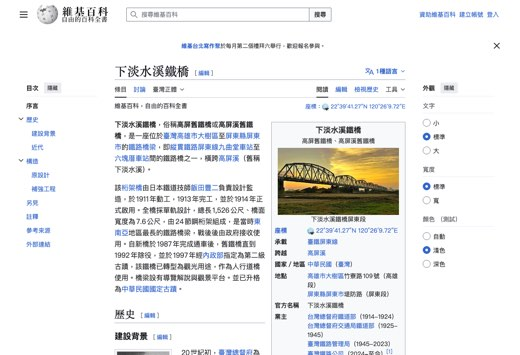
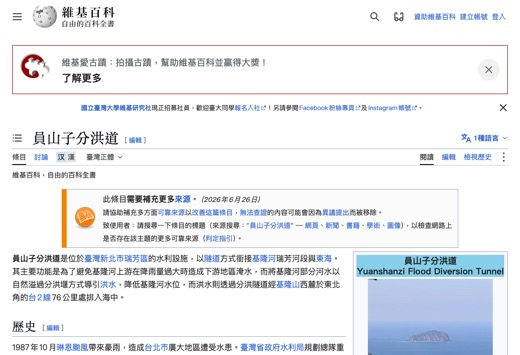
街景定位工程地景：景點資料與 twgeo 同步
修正高屏溪斜張橋、大港橋、沙崙、日月光等座標；南方澳新橋、大坑情人橋、高美濕地、王功生態景觀橋橋型；
觀音隧道改鑽炸＋NATM、林口電廠三相點改臨界點、阿里山改黏著式鐵路；淡江大橋改已通車；
下淡水溪鐵橋與高屏溪舊鐵橋合併，第 37 筆改收員山子分洪道（索引不變，重拍維基截圖並更新 SOURCES）；分類標籤橋樑改橋梁。

diff --git a/arcade/games/geoguess/index.html b/arcade/games/geoguess/index.html
@@ -209,42 +209,42 @@ const LOCS = [
 const SITES = [
   ["西螺大橋",23.8113,120.4606,3,"桁架結構分析（Truss）、靜定與靜不定結構判斷、拉壓桿件受力與材料降伏強度分析（第三章）。"],
   ["德基水庫大壩",24.2586,121.1544,3,"結構應力分析、流體力學與靜水壓力轉換、雙曲線混凝土拱壩受力與 CAE 模擬對照（第三章）。"],
-  ["高屏溪斜張橋",22.7847,120.9482,3,"向量力學分解、鋼索拉力分析、塔柱與橋面之自由體圖（FBD）繪製與彎矩平衡（第三章）。"],
+  ["高屏溪斜張橋",22.644,120.435,3,"向量力學分解、鋼索拉力分析、塔柱與橋面之自由體圖（FBD）繪製與彎矩平衡（第三章）。"],
   ["關渡大橋",25.1245,121.4556,0,"連續繫索鋼拱橋結構。觀察拱橋如何將垂直荷重轉化為向外的巨大推力，以及下方繫索的拉力制衡作用。"],
   ["台北101大樓",25.0339,121.5644,0,"巨型構架（Mega-frame）與調諧質量阻尼器（TMD）。探討超高層建築抗風與減震的動力學與能量消散機制。"],
-  ["翡翠水庫大壩",24.908,121.5734,0,"三心雙向彎曲變厚度混凝土拱壩。體現複雜 CAID 幾何與結構安全分析（CAE）在水利工程的極致結合 。"],
-  ["曾文水庫大壩",23.2458,120.5358,0,"滾壓式土石壩。探討顆粒材料工程、坡度穩定分析、土壤力學與巨型防洪洩洪道的鋼筋混凝土結構設計。"],
-  ["石門水庫溢洪道",24.8105,121.2468,0,"弧形閘門結構設計。水動力學與大體積水流瞬間洩放時，鋼結構閘門開啟的材料降伏強度與疲勞分析 。"],
+  ["翡翠水庫大壩",24.908,121.5734,0,"三心雙向彎曲變厚度混凝土拱壩。體現複雜 CAID 幾何與結構安全分析（CAE）在水利工程的極致結合。"],
+  ["曾文水庫大壩",23.2203,120.5081,0,"滾壓式土石壩。探討顆粒材料工程、坡度穩定分析、土壤力學與巨型防洪洩洪道的鋼筋混凝土結構設計。"],
+  ["石門水庫溢洪道",24.8105,121.2468,0,"弧形閘門結構設計。水動力學與大體積水流瞬間洩放時，鋼結構閘門開啟的材料降伏強度與疲勞分析。"],
   ["澎湖跨海大橋",23.6496,119.5488,1,"海洋極端環境下的防腐蝕材料工程、長跨度橋梁抗強烈季風與高鹽害環境的結構耐久度設計（第一章環境永續）。"],
   ["碧潭吊橋",24.9567,121.5372,0,"柔性結構與懸索橋原理。探討懸垂線（Catenary curve）的數學方程式、橋台錨碇座的抗拔力與物理受力轉換。"],
   ["淡水情人橋",25.1828,121.4111,0,"單塔不對稱斜張橋。探討結構不對稱性的動態平衡設計，主塔受巨大偏心彎矩分析與材料韌性（Toughness）要求。"],
   ["臺北車站屋頂結構",25.0478,121.517,0,"空間桁架系統（Space Frame）。利用三維節點分散巨大跨度的屋頂載重，減少單一柱體的軸向壓力。"],
-  ["南方澳跨港大橋(新)",24.5823,121.8672,0,"鯖魚造型懸臂式預力箱型梁橋。探討預力混凝土（Pre-stressed concrete）如何主動提供壓應力以抵銷拉力變形。"],
+  ["南方澳跨港大橋(新)",24.5823,121.8672,0,"鯖魚意象預力混凝土箱型梁橋（懸臂工法，2022 年通車）。對照 2019 年倒塌的舊鋼拱橋（吊索鏽蝕斷裂），探討預力如何抵銷拉應力，以及橋梁檢測維護的工程教訓。"],
   ["國道六號國姓交流道",23.9983,120.8524,0,"高達 70 公尺之高架橋墩。探討河床深基礎工程、高聳橋墩之尤拉挫曲（Euler Buckling）分析與耐震設計。"],
   ["五楊高架橋",25.06,121.36,1,"預鑄箱型梁與旋轉工法。在狹窄國道上方維持通車施工的工程限制（Constraints）與系統管理（第一章 CDIO）。"],
   ["舊山線龍騰斷橋",24.3582,120.7733,0,"磚石拱橋破壞遺跡。藉由大地震破壞斷面探討脆性材料、無鋼筋補強的早期砌磚工程之抗震缺陷與力學弱點。"],
-  ["下淡水溪鐵橋",22.6598,120.4269,0,"早期鉚釘工法與華倫式桁架。教材結構史探討，以及鋼材受強烈剪應力（Shear stress）與循環載重的分析。"],
+  ["下淡水溪鐵橋(高屏溪舊鐵橋)",22.6598,120.4269,0,"早期鉚釘工法與曲弦普拉特式鋼桁架（1964 年補強時部分改為華倫式）。教材結構史探討，以及鋼材受強烈剪應力（Shear stress）與循環載重的分析。"],
   ["大直橋",25.0769,121.5472,0,"釣竿式斜張橋。觀察無後置拉索的懸臂端，如何完全依靠塔柱根部強大的固端彎矩與深基礎來達到靜力平衡。"],
-  ["蘇花改觀音隧道",24.3751,121.785,0,"長隧道開挖工程。鑽掘機（TBM）與新奧工法（NATM）中的岩盤應力釋放、岩栓支撐與噴凝土的力學平衡。"],
+  ["蘇花改觀音隧道",24.3751,121.785,0,"長隧道開挖工程。鑽炸工法配合新奧工法（NATM）的岩盤應力釋放、岩栓支撐與噴凝土力學平衡（TBM 見雪山隧道之對照案例）。"],
   ["雪山隧道通風豎井",24.9192,121.8025,0,"地下工程與流體力學。深達數百公尺的豎井結構側向土壤壓力穩定性，與隧道內空氣交換之計算流體力學（CFD）。"],
   ["鯉魚潭水庫鋸齒堰",24.3355,120.7788,0,"鋸齒狀自然溢流堰。利用折線大幅增加溢流堰的有效排洪長度，展現流體力學在有限幾何空間中的創新應用。"],
   ["明德水庫壩體",24.5866,120.8988,0,"土石壩心牆設計。探討防滲漏黏土核心層與外部透水層的力學疊加效應，以及孔隙水壓力的排除機制。"],
   ["大漢溪新月橋",25.0298,121.4503,0,"雙跨不對稱鋼拱橋。觀察鋼索拉力與拱肋推力的交互作用分析，以及橋面板在風載重下的共振與扭轉防護。"],
   ["桃園機場第一航廈",25.0796,121.2342,0,"結構改建與拉皮工程。探討在不拆除原結構下，如何利用預力構件與微型樁進行擴展支撐，延續結構壽命。"],
-  ["南山廣場大樓",25.0326,121.567,0,"逆打工法與現代鋼骨結構。探討城市密集區的深開挖擋土技術、地下水壓控制與現代高樓的結構設計限制 。"],
-  ["高雄85大樓",22.6116,120.3002,0,"中空的高樓結構設計。抗風洞效應設計，避免空氣流經建築時產生卡門渦街（Karman vortex street）引發結構共振。"],
+  ["南山廣場大樓",25.0326,121.567,0,"逆打工法與現代鋼骨結構。探討城市密集區的深開挖擋土技術、地下水壓控制與現代高樓的結構設計限制。"],
+  ["高雄85大樓",22.6116,120.3002,0,"「高」字造型、雙塔在 35 樓以上合併的中空高樓結構。設計時以風洞試驗取得各測點正負風壓，並為台灣第一棟引進抗風阻尼器的摩天大樓，探討高樓受風擺動的評估與抑制。"],
   ["臺北捷運劍潭站",25.0847,121.5249,0,"懸索結構屋頂。模仿吊橋原理，將屋頂重量透過鋼纜傳至兩側塔柱，為建築美學、參數化幾何與力學的完美結合。"],
   ["臺中國際機場航廈",24.2647,120.62,2,"飛翼型大跨度屋頂。建築受強烈陣風載重（Wind load）時的升力與下壓力模擬分析（第二章 CAE 應用）。"],
   ["林口發電廠卸煤碼頭",25.1172,121.2913,0,"離岸長距棧橋。海洋波浪動態力對橋墩的長期沖刷，以及鋼管樁的低頻疲勞破壞分析（Fatigue analysis）。"],
   ["台東池上大橋",23.1098,121.1965,0,"位於活躍斷層帶的橋梁。防震與斷層潛移的伸縮縫設計、防落石塊與高阻尼橡膠減震支承設計（地震工程）。"],
   ["清境高空觀景步道",24.0569,121.1578,1,"山區高架棧道。陡峭地形限制下的微型樁基礎施工，與環境生態干擾最小化的結構設計（第一章環境責任）。"],
-  ["台中大坑情人橋",24.1685,120.7303,0,"鋼管斜拱橋設計。利用視覺錯覺與水中倒影構成幾何圖形，探討斜拱受力不均勻時產生的巨大扭矩與剪力分析。"],
+  ["台中大坑情人橋",24.1685,120.7303,0,"粉紅色曲線斜張橋。玻璃橋面與水中倒影構成愛心幾何，探討曲線橋面下斜張索受力不均產生的扭力與剪力分析。"],
   ["新北大橋",25.0486,121.4828,0,"倒Y型塔柱斜張橋。高達 135 公尺塔柱的風力自然頻率分析，以及索力微機電感測器在結構健康監測的應用。"],
   ["泰山收費站舊址",25.0609,121.4285,4,"現代 ETC 門架取代舊有龐大混凝土站體。體現感測科技演進對土木結構體積的巨大縮減（第四章/第一章）。"],
   ["新竹高鐵站屋頂結構",24.808,121.0403,0,"幾何曲面與空間鋼構架。強烈東北季風與高鐵列車高速通過時，風切變壓與風阻係數考量下的屋面板抗掀力學。"],
-  ["苗栗新東大橋",24.5516,120.8351,0,"全臺首座對稱斜張橋。橋身靜態應力分佈、兩端配重平衡計算與夜間景觀照明的機電整合設計。"],
+  ["苗栗新東大橋",24.5516,120.8351,0,"全臺首座對稱式全電焊鋼構斜張橋。橋身靜態應力分佈、兩端配重平衡計算與夜間景觀照明的機電整合設計。"],
   ["日月潭向山遊客中心",23.8519,120.9016,0,"清水模大跨距頂版。無柱空間設計挑戰混凝土抗拉極限，需精確計算剪力牆與預力樑的力學模擬分析以防止裂縫。"],
-  ["高屏溪舊鐵橋",22.6599,120.4267,0,"百年鋼桁架橋。與現今高強度鋼材的楊氏模數比較，以及鉚釘接頭破壞機理、應力集中現象探討 。"],
+  ["員山子分洪道",25.1076,121.8058,0,"基隆河分洪工程。攔河堰與 2.5 公里分洪隧道將洪峰直接導入外海，探討水理計算、隧道襯砌與防洪頻率設計。"],
   ["新港溪橋（台南）",23.0375,120.2798,0,"國道一號預鑄橋梁。預鑄節塊工法，探討推移施工（Incremental launching）過程中，橋面板懸臂受力狀態的不斷變化。"],
   ["草山月世界吊橋",22.9513,120.3951,0,"惡地地形的橋梁基礎。探討泥岩遇水軟化的極端土壤力學特性，與微型基樁依靠側向摩擦力支撐的機制。"],
   ["阿公店水庫",22.8028,120.3547,0,"壩體長度極長之土石壩。探討水庫防洪機制、泥沙淤積對壩體側向壓力的影響與結構壽命評估（土木與環境工程）。"],
@@ -256,24 +256,24 @@ const SITES = [
   ["東石漁人碼頭觀景台",23.4475,120.1347,0,"鹽害環境中的輕鋼構建築。金屬表面防鏽處理技術（熱浸鍍鋅）、結構疲勞檢測與海岸風力流體力學。"],
   ["合歡山公路武嶺亭",24.1372,121.2758,0,"極端氣候下的高山微型結構。雪載重（Snow load）估算與低溫環境對金屬材料韌性（Toughness）與脆化的影響。"],
   ["台南七股觀海樓",23.1364,120.0886,0,"潟湖上的鋼筋混凝土結構。探討強風侵襲與地層下陷區域的基礎沉陷問題，以及基樁承載力的重新評估。"],
-  ["中橫公路九曲洞明隧道",24.1751,121.5204,0,"懸崖峭壁的落石防護。探討緩衝材料（如廢輪胎或特殊阻尼網）吸收巨大落石動能的衝擊力學（Impulse-momentum）。"],
+  ["中橫公路九曲洞明隧道",24.1713,121.5311,0,"懸崖峭壁的落石防護。探討緩衝材料（如廢輪胎或特殊阻尼網）吸收巨大落石動能的衝擊力學（Impulse-momentum）。"],
   ["台中國家歌劇院",24.1624,120.6413,2,"連續曲面殼體結構（Sound Cave）。CAID 參數化建模、拓撲幾何運算與無梁柱系統分析（第二章）。"],
   ["台北表演藝術中心",25.0852,121.5244,2,"懸浮球形劇場。極端偏心載重分析、複雜幾何干涉檢查與 CAE 有限元素靜力模擬（第二章）。"],
-  ["淡江大橋（建設中）",25.1746,121.4172,0,"單塔不對稱斜張橋。Zaha Hadid 設計，流動性外觀高度依賴 CAD 流體力學優化與參數化纜索配置 。"],
+  ["淡江大橋",25.1746,121.4172,0,"世界最長單塔不對稱斜張橋（主跨 450 公尺，2026 年 5 月通車）。Zaha Hadid 事務所設計，流動性外觀高度依賴 CAD 流體力學最佳化與參數化纜索配置。"],
   ["衛武營國家藝術文化中心",22.6254,120.3421,0,"自由曲面鋼骨屋頂（Banyan Tree）。造船技術（鈑金展開與銲接）在建築上的跨域應用，數位化 CNC 精密切割。"],
   ["高雄流行音樂中心",22.6186,120.2917,0,"六角形蜂巢結構與海浪造型。空間不規則鋼構的參數化組裝與幾何玻璃帷幕的切割誤差運算。"],
   ["蘭陽博物館",24.8688,121.8315,0,"單面山幾何傾斜結構。非常規重力垂直線設計的靜力平衡挑戰，與內部交錯桁架支撐的應力傳遞轉換。"],
   ["故宮南院",23.4725,120.2936,0,"墨韻飛白雙流線體造型。曲面鋼構如何克服臺灣炎熱氣候下的熱脹冷縮與三維空間的加工扭曲（製造業 CAD）。"],
   ["臺北流行音樂中心",25.0526,121.6006,0,"幾何折板山脈屋頂設計。室內聲學模擬（Acoustic simulation）與建築結構的融合，利用軟體進行聲音漫射預測。"],
-  ["臺北大巨蛋",25.0422,121.5587,0,"巨型橢圓形穹頂結構。建築外部風洞測試模擬（CFD）與超過 130 公尺跨度的巨型張力環樑承載設計 。"],
+  ["臺北大巨蛋",25.0422,121.5587,0,"巨型橢圓形穹頂結構。建築外部風洞測試模擬（CFD）與超過 130 公尺跨度的巨型張力環樑承載設計。"],
   ["嘉義火車站新站體(願景)",23.4791,120.4402,0,"現代木構造與幾何鋼構結合。探討不同材料（木材與金屬）結合時的熱膨脹係數差異與應力傳遞邊界條件。"],
-  ["桃園市立圖書館新總館",25.0163,121.2985,0,"「生命樹」環保綠建築。圓錐狀中央採光井的數位日照軌跡模擬，與自然通風的 CFD 流體力學分析 。"],
-  ["臺中綠美圖（建設中）",24.1856,120.6542,0,"妹島和世設計。極簡外觀背後的複雜結構隱藏設計，玻璃帷幕的抗風壓與微氣候模擬分析。"],
+  ["桃園市立圖書館新總館",25.0178,121.3,0,"「生命樹」環保綠建築。圓錐狀中央採光井的數位日照軌跡模擬，與自然通風的 CFD 流體力學分析。"],
+  ["臺中綠美圖",24.1856,120.6542,0,"SANAA（妹島和世＋西澤立衛）設計，2025 年底開館。極簡外觀背後的複雜結構隱藏設計，玻璃帷幕的抗風壓與微氣候模擬分析。"],
   ["新北市立美術館",24.9452,121.3503,0,"蘆葦叢外觀美術館。外部數千根參差不齊的金屬鋁管，依賴參數化腳本隨機生成位置與防風噪震動測試。"],
   ["臺南美術館二館",22.9904,120.2016,0,"碎形樹狀遮陽屋頂。五角形碎形幾何（Fractal geometry）的複雜力學分佈與日光穿透率計算。"],
   ["高雄車站（新站）",22.6394,120.3025,0,"天棚下沉式廣場。有機雲朵天花板構造，數位加工金屬板材拼貼的容許誤差控制技術與曲面展平計算。"],
   ["屏東縣民公園",22.6583,120.4851,0,"地坑遺址活化。運用 3D 數位雷射測繪技術與現有廢棄鋼構的反向工程（Reverse Engineering）結構補強。"],
-  ["富邦信義A25總部大樓",25.0378,121.5694,0,"超高層建築。斜向交叉鋼柱系統（Diagrid），捨棄內部沉重核心筒的創新力學傳遞路徑與拓撲優化。"],
+  ["富邦信義A25總部大樓",25.0378,121.5694,0,"超高層全鋼構大樓。雙層玻璃帷幕的抗風壓與耐震設計，轉角退縮的晶體造型幾何與帷幕單元的誤差控制。"],
   ["亞洲大學現代美術館",24.047,120.6872,0,"安藤忠雄設計。由三個正三角形錯落堆疊構成，純幾何平面的結構柱位干涉與懸臂樓板受力 CAE 分析。"],
   ["臺中國際會展中心",24.1805,120.6508,0,"大跨距波浪形屋頂。大面積屋面板在強風下的風起壓力（Wind uplift）運算與高強度緊固件設計。"],
   ["南科考古館",23.1042,120.2811,0,"方塊切割與傾斜外牆。傾斜玄武岩牆面的懸掛配筋計算，與解決視覺失衡的隱藏式受力支撐方案。"],
@@ -281,126 +281,126 @@ const SITES = [
   ["臺東大學圖書館",22.7533,121.0664,0,"金字塔地景建築。覆土建築（Earth-sheltered building）的精密防水工法與斜面土壤側壓力 CAE 分析。"],
   ["雲林高鐵站",23.7314,120.4072,0,"流線型柱列設計。參數化連續變化柱列的開模製造挑戰，與電腦數值控制加工（CNC）在模板成型的應用。"],
   ["彰化高鐵站",23.8732,120.5746,0,"花朵造型漏斗柱。承載巨大屋頂重量同時兼顧管線排水機能的仿生設計（Biomimetic design）與受力拓撲。"],
-  ["嘉義高鐵站",23.4591,120.3235,0,"輕量化張拉膜結構（Tensile fabric structure）。薄膜受預張力作用下的形態尋找（Form-finding）與風力分析。"],
+  ["嘉義高鐵站",23.4581,120.3261,0,"大跨距鋼構斜面金屬屋頂。樹狀分岔柱列的力流傳遞、大懸挑屋簷的風載分析與自然採光設計。"],
   ["臺南左鎮化石園區",23.0573,120.4014,0,"清水模與鋼構擴建。新舊結構交接處的地震位移容許度模擬，防止碰撞破壞（CAE 結構動態應力分析）。"],
   ["高雄世運主場館",22.7025,120.2941,0,"馬鞍形螺旋屋頂與光電一體化。開放式運動場的 CAD 風洞模型建立與太陽能板傾角的最佳化演算法運算。"],
   ["宜蘭羅東文化工場",24.6713,121.7675,0,"巨型鋼構棚架。類似太空船懸浮的設計，以極少數巨柱支撐龐大頂蓋的極端載重轉移與底座抗剪力設計。"],
   ["國立臺灣歷史博物館",23.0592,120.2248,0,"太陽能光電雲牆。支撐 4000 多片面板的複雜鋼網架系統，受強烈陣風時的動態響應與疲勞分析。"],
-  ["桃園流行音樂露天劇場",25.0118,121.2132,0,"聲學反射遮棚。利用 CAID 模擬聲波在開放空間的反射路徑，使建築實體本身成為巨大的聲學擴音器。"],
+  ["桃園陽光劇場(流行音樂露天劇場)",25.0242,121.2184,0,"聲學反射遮棚。利用 CAID 模擬聲波在開放空間的反射路徑，使建築實體本身成為巨大的聲學擴音器。"],
   ["新竹市圖書館新總館(建)",24.8105,120.9701,0,"智慧綠建築設計。太陽軌跡追蹤的 3D 模擬，導入自動化遮陽系統（機電整合）與室內熱流散熱分析。"],
-  ["中原大學圖書館",24.9575,121.2405,0,"綠色中庭通風系統。透過中庭天井引導熱浮力通風（浮力效應），利用 CFD 模擬減少空調耗能的流場設計 。"],
+  ["中原大學圖書館",24.9575,121.2405,0,"綠色中庭通風系統。透過中庭天井引導熱浮力通風（浮力效應），利用 CFD 模擬減少空調耗能的流場設計。"],
   ["元智大學遠東有庠通訊大樓",24.9698,121.2641,0,"清水混凝土幾何量體。純粹幾何塊體切割的美學，與內部不對稱重量分佈的 CAD 質心計算應用。"],
-  ["高美濕地景觀橋",24.3125,120.5488,0,"雙塔雙弧線懸索橋。配合當地候鳥飛行的弧線幾何，流體力學抗風壓與生態保育視覺衝擊的妥協設計。"],
-  ["星巴克洄瀾門市(貨櫃屋)",23.9723,121.5948,0,"貨櫃錯落堆疊結構。廢棄模組化貨櫃的開窗結構補強，與錯位堆疊時節點的抗剪力與扭矩計算。"],
+  ["高美濕地景觀橋",24.3125,120.5488,0,"雙塔雙弧線斜張橋（國內首座）。配合當地候鳥飛行的弧線幾何，流體力學抗風壓與生態保育視覺衝擊的妥協設計。"],
+  ["星巴克洄瀾門市(貨櫃屋)",23.9723,121.5948,0,"貨櫃錯落堆疊結構。廢棄模組化貨櫃的開窗結構補強，與錯位堆疊時節點的抗剪力與扭力計算。"],
   ["宏匯i-Tower（新莊）",25.0593,121.4485,0,"雲端智能摩天大樓。智慧建築的 BIM（建築資訊模型）深度應用，在 3D 空間中統整水電、空調與結構管線防干涉。"],
   ["東海大學路思義教堂",24.1788,120.6006,0,"雙曲拋物面（Hyperbolic paraboloid）。早期無電腦輔助下達成 3D 曲面殼體結構的歷史對照與幾何生成解析。"],
   ["桃園高鐵站",25.0132,121.2148,0,"燈籠造型金屬帷幕。探討雙向曲面金屬板材的雷射切割路徑規劃，與平面展開圖的微積分運算（數位加工）。"],
   ["北投圖書館",25.1364,121.5065,0,"臺灣首座綠建築圖書館。木造結構與自然採光、雨水回收的整合 CAD 設計，木材彈性模數與防潮探討。"],
   ["臺北大縱走圓山微波站",25.0811,121.5284,0,"通訊鐵塔空間鋼構。高頻通訊波傳遞受風力震動影響的分析，以及耐候鋼材料在山區的特性。"],
   ["三創數位生活園區",25.0445,121.5312,0,"現代科技商場帷幕。外牆參數化 LED 燈條與玻璃帷幕的整合，光電工程散熱與建築表皮的機電整合。"],
-  ["新北圖書館總館",25.0039,121.4518,0,"書架狀外觀與節能設計。立面開口參數化調整以阻絕輻射熱能，並導入電腦模擬光跡追蹤優化閱讀區光線。"],
+  ["新北圖書館總館",25.0039,121.4518,0,"書架狀外觀與節能設計。立面開口參數化調整以阻絕輻射熱能，並導入電腦模擬光跡追蹤最佳化閱讀區光線。"],
   ["臺中市政府新市政大樓",24.1627,120.6468,0,"橫向巨型窗框與跨棟通道。高層建築間連通空橋面對地震時的差異沉陷，與防震滑動支承（Sliding bearing）設計。"],
   ["高雄市圖書總館",22.6101,120.3015,0,"懸吊式綠建築。顛覆由下而上的承重，利用巨柱頂層懸吊鋼拉桿支撐樓板，減少柱子體積的拉力系統設計。"],
   ["臺東轉運站（舊火車站）",22.7533,121.1444,0,"傘骨狀鋼棚結構。利用輻射狀圓管傳遞載重的對稱幾何美學與張量力學設計，提供大面積無柱遮蔽。"],
-  ["花蓮富里車站",23.1786,121.2505,0,"穀倉造型輕鋼構車站。以簡潔連續折板屋面適應花東縱谷的強陣風氣候，運用 CAD 優化自然採光。"],
+  ["花蓮富里車站",23.1786,121.2505,0,"穀倉造型輕鋼構車站。以簡潔連續折板屋面適應花東縱谷的強陣風氣候，運用 CAD 最佳化自然採光。"],
   ["臺南台江文化中心",23.0531,120.1834,0,"樹叢交錯鋼筋立面。不規則金屬網狀外牆的力學固定端點計算與高溫高濕環境的生鏽防護（材料處理）。"],
   ["嘉義市立美術館",23.4777,120.4431,0,"CLT 交叉層壓木材應用。古蹟增建中採用現代工程木材（Engineered wood）減少自重負擔，與木構防火設計。"],
   ["新竹波光市集",24.8475,120.9272,0,"波浪形幾何木構。適應新竹強風的海濱建築，木板流線防風設計的流體力學，減少風阻係數。"],
   ["誠品生活新店（裕隆城）",24.9768,121.5458,0,"內部穹頂微建築。巨大圓形穹頂與層疊木作陽台的空間受力 CAE 解析，與參數化木紋面板雷射切割拼接。"],
-  ["高雄大港橋",22.6168,120.2536,3,"水平旋轉機構。馬達驅動大齒輪系、減速增扭、高精度編碼器定位控制與機電安全連鎖（第三章）。"],
+  ["高雄大港橋",22.6178,120.2838,3,"水平旋轉機構。馬達驅動大齒輪系、減速增扭、高精度編碼器定位控制與機電安全連鎖（第三章）。"],
   ["國道一號 ETC 門架 (新竹)",24.7887,121.005,0,"高速動態感測。RFID 無線射頻技術、紅外線感測與高速影像辨識的類比數位轉換（第四/五章）。"],
   ["國道三號 ETC 門架 (大甲)",24.3641,120.6128,0,"戶外電子系統防護。探討極端氣候下精密電子電路板（PCB）的防水防塵（IP等級）封裝與抗突波保護。"],
   ["臺北捷運文湖線 (高架段)",25.0782,121.5794,0,"自動列車控制（ATC）。封閉迴路控制系統、變頻馬達驅動與無人駕駛之感測器多重備援（Redundancy）設計。"],
-  ["桃園機場第三航廈PMS",25.076,121.223,0,"旅客捷運系統導軌。探討直線馬達（Linear Motor）原理，將傳統旋轉定子攤平產生的磁浮與線性推進力。"],
+  ["桃園機場旅客捷運系統(PMS)",25.076,121.223,0,"航廈間旅客捷運（PMS）。膠輪導軌電車（側向導引、三相交流 600 V 供電），探討無人駕駛自動運行與導引輪機構的短程接駁工程。"],
   ["高雄輕軌 (真愛碼頭站)",22.6189,120.2882,4,"無架空線充電系統。進站短暫接觸瞬間的超級電容器（Capacitor）大電流快速儲能技術（第四章電容器應用）。"],
   ["高雄港第七貨櫃中心",22.5458,120.3175,0,"智慧無人碼頭。自動導引車（AGV）的光達導航，橋式機全自動抓取之四連桿機構定位與伺服防搖擺控制。"],
   ["貓空纜車 (轉角二站)",24.9754,121.5901,0,"纜車轉向機構。鋼纜動力轉換系統，巨大滑輪組與脫掛式車廂的夾爪機械制動機構設計（機構學）。"],
   ["日月潭纜車 (九族站)",23.8647,120.9405,0,"長距離鋼索驅動。馬達變頻驅動系統，遭遇強風時的風速計自動感測與停機保護機制（大電力繼電器控制）。"],
-  ["臺北車站月台門系統",25.0478,121.517,0,"月台幕門（PSD）。馬達驅動齒輪齒條機構（Rack and pinion mechanism）將旋轉轉直線，與防夾紅外線感測 。"],
+  ["臺北車站月台門系統",25.0478,121.517,0,"月台幕門（PSD）。馬達驅動齒輪齒條機構（Rack and pinion mechanism）將旋轉轉直線，與防夾紅外線感測。"],
   ["淡海輕軌 (藍海橋)",25.1856,121.4255,0,"輕軌軌道機電整合。道岔（Turnout）自動切換裝置，電動轉轍器的推拉滑塊機構分析與安全鎖定。"],
-  ["蘇花改自動科技執法",24.4552,121.8415,0,"區間測速系統。車牌影像辨識與微處理器時間差運算，雷達波感測車速的都卜勒效應（信號處理）。"],
+  ["蘇花改自動科技執法",24.462,121.803,0,"區間測速系統。車牌影像辨識與微處理器時間差運算，雷達波感測車速的都卜勒效應（信號處理）。"],
   ["臺中捷運綠線 (高架段)",24.1622,120.6496,0,"再生煞車系統。列車減速時馬達反轉作為發電機，將動能轉換回電能儲存或供電網使用（能量守恆與轉換）。"],
   ["臺北建國高架橋下停車場",25.0345,121.5372,0,"智慧停車系統。地磁感測器（探測巨大金屬車體）與超音波感測器（探測物理距離）的協同運作與雲端傳輸。"],
-  ["桃園高鐵站聯外機捷系統",25.0132,121.2148,0,"行李自動分揀系統。輸送帶網路的光學條碼掃描與推桿機構（曲柄滑塊）的精確微秒級時序控制 。"],
+  ["桃園高鐵站聯外機捷系統",25.0132,121.2148,0,"高鐵與機場捷運共構轉乘樞紐。站體共構工程、人流動線模擬與自動收費閘門的感應與機構設計。"],
   ["高雄鐵路地下化通風塔",22.6395,120.302,0,"巨型隧道抽風機。三相交流感應馬達驅動與變頻器（Inverter）轉速控制，維持地下空氣品質的機電整合。"],
-  ["台糖蒜頭糖廠五分車",23.48,120.2988,0,"早期蒸汽機車與連桿。觀察雙曲柄機構（Double crank mechanism）如何完美滿足格拉曉夫定則，驅動火車車輪整周旋轉 。"],
+  ["台糖蒜頭糖廠五分車",23.48,120.2988,0,"早期蒸汽機車與連桿。觀察雙曲柄機構（Double crank mechanism）如何完美滿足格拉曉夫定則，驅動火車車輪整周旋轉。"],
   ["八斗子海科館齒輪牆",25.1432,121.8021,0,"動態展示館內齒輪牆。行星齒輪系（Planetary gear train）的複雜相對運動軌跡與齒輪速比（Gear ratio）計算。"],
-  ["高鐵燕巢總機廠",22.7667,120.3478,0,"列車轉向架維修升降台。螺旋機構（導螺桿 Lead screw）應用，提供機械自鎖性與高精度之數十噸垂直舉升 。"],
+  ["高鐵燕巢總機廠",22.7667,120.3478,0,"列車轉向架維修升降台。螺旋機構（導螺桿 Lead screw）應用，提供機械自鎖性與高精度之數十噸垂直舉升。"],
   ["彰化扇形車庫",24.0864,120.5406,0,"旋轉轉車盤。單點支撐百噸火車的旋轉力矩平衡機制，以及早期的機械式減速傳動與手動控制桿。"],
   ["大稻埕碼頭水門",25.0569,121.5061,0,"防洪閘門驅動機構。利用電動馬達搭配重型油壓缸或巨型螺旋桿進行沉重鋼閘門的直線升降控制。"],
-  ["宜蘭梅花湖抽水站",24.6465,121.7312,0,"大型防洪抽水泵。阿基米德螺旋泵或離心泵的高效能流體輸送，三相感應馬達瞬間啟動大電流負載測試。"],
-  ["臺北微風南山 3D 影城",25.0346,121.5672,0,"4D 動感座椅系統。氣壓缸或伺服馬達（Servo motor）結合六自由度（6-DOF）史都華平台之精準動態控制 。"],
+  ["宜蘭梅花湖(天然蓄水埤)",24.6465,121.7312,0,"天然湖泊的蓄水調節與農田灌溉水利。探討埤塘容量估算、進出水閘門流量控制與集水區泥沙淤積監測。"],
+  ["臺北微風南山 3D 影城",25.0346,121.5672,0,"4D 動感座椅系統。氣壓缸或伺服馬達（Servo motor）結合六自由度（6-DOF）史都華平台之精準動態控制。"],
   ["桃園機場塔台",25.0772,121.233,0,"航空測向雷達天線。雷達馬達穩定旋轉機制與微波訊號接收之數位訊號處理（DSP）及微控制器高速運算。"],
-  ["中部科學園區巨大機械",24.2185,120.612,0,"自動化自行車產線。工業機械手臂的六軸空間運動學，伺服馬達閉迴路控制與絕對編碼器（Encoder）定位。"],
-  ["高雄岡山空軍官校",22.7845,120.2766,0,"飛行模擬器機台。萬向接頭（Universal joint）與高壓油壓致動器在模擬飛行極端姿態的動態反應 。"],
-  ["新北環狀線 (十四張站)",24.9836,121.5284,0,"軌道轉轍器機房。控制列車換軌的機電安全連鎖邏輯，PLC 中 AND/OR/NOT 邏輯閘的工業級攸關性應用 。"],
+  ["中科巨大集團全球營運總部",24.2185,120.612,0,"自行車產業研發總部。參數化設計帷幕與自行車文化探索館展示工程，對應自行車產業的研發製造職涯。"],
+  ["高雄岡山空軍官校",22.7845,120.2766,0,"飛行模擬器機台。萬向接頭（Universal joint）與高壓油壓致動器在模擬飛行極端姿態的動態反應。"],
+  ["新北環狀線 (十四張站)",24.9836,121.5284,0,"軌道轉轍器機房。控制列車換軌的機電安全連鎖邏輯，PLC 中 AND/OR/NOT 邏輯閘的工業級攸關性應用。"],
   ["臺北101 阻尼器觀景台",25.0339,121.5644,0,"阻尼器油壓緩衝系統。將建築搖晃的巨大動能轉化為液體摩擦熱能消散，黏滯阻尼器的阻尼係數計算。"],
-  ["左營軍港海軍艦艇",22.6865,120.2766,0,"艦砲旋轉塔或雷達基座。軍用級的穩定追蹤系統，結合三軸陀螺儀感測器與伺服馬達高速反饋控制迴路。"],
+  ["左營軍港海軍艦艇",22.6865,120.2766,0,"艦砲旋轉塔或雷達基座。軍用級的穩定追蹤系統，結合三軸陀螺儀感測器與伺服馬達高速回饋控制迴路。"],
   ["墾丁龍磐公園雷達站",21.9288,120.8436,0,"大型陣列天線。電磁波收發陣列與機構的防風穩固設計，在極端高溫與高鹽害環境的機電元件防護。"],
   ["臺北天文館宇宙探險車",25.0958,121.5175,0,"軌道車廂與場景連動系統。光電感測器觸發沿線機關（如外星人彈出）的精確時序控制（Timer IC 如 NE555）。"],
   ["台積電中科 15 廠 (天橋)",24.2086,120.6175,0,"OHT 空中走行無人搬運車。天花板軌道網上的非接觸磁感應供電與防撞高精度紅外線雷射陣列。"],
   ["新竹物流林口自動化倉儲",25.0716,121.3688,0,"AS/RS 自動倉儲系統。堆垛機的高速 XYZ 三維座標同時移動，與 PLC 馬達驅動板的精準定位與防滑煞車。"],
-  ["清水休息站戶外太陽能樹",24.2644,120.6094,0,"追日型太陽能板。感光元件（如 LDR 光敏電阻）回饋電壓訊號給微控制器，驅動步進馬達隨時轉向陽光 。"],
+  ["台南高鐵站太陽光能樹",22.9245,120.2856,0,"樹形太陽光電裝置。156 片單晶矽板組成樹冠意象，搭配儲能系統與 LED 夜間展演，探討光電轉換效率與裝置藝術的結合。"],
   ["臺中麗寶樂園斷軌飛車",24.3216,120.6955,0,"斷軌旋轉機構。滿載車廂懸空 90 度轉向，極端承重的油壓連桿機構與多重視訊與近接開關的安全鎖定感測。"],
   ["新北投溫泉博物館 (閥門)",25.1368,121.506,0,"管線蒸汽調控閥門。探討熱脹冷縮極端環境下的物理機械金屬開關與高壓水壓平衡設計。"],
-  ["高雄世運捷運站動態藝術",22.7025,120.2941,0,"風動與機電動態雕塑。瓦特連桿（Watt's linkage）等近似直線機構應用於藝術展示之平滑軌跡生成 。"],
-  ["阿里山林鐵 (獨立山螺旋)",23.5358,120.6052,0,"螺旋爬坡軌道。探討輪軌鋼鐵間摩擦力極限，與齒軌鐵路（Rack railway）之齒輪齒條克服地心引力原理 。"],
-  ["臺北大巨蛋活動屋頂機房",25.0422,121.5587,0,"屋頂開闔機構 (設計預留)。巨型活動模組的驅動馬達群組同步運轉（Synchronization）與干涉防護挑戰。"],
-  ["彰化王功漁港景觀橋",23.9664,120.3188,0,"折疊開啟橋設計探討。分析活動橋樑鉸接點（Hinge）的動態受力與纜索牽引機構的起步扭矩計算。"],
+  ["高雄世運捷運站動態藝術",22.7025,120.2941,0,"風動與機電動態雕塑。瓦特連桿（Watt's linkage）等近似直線機構應用於藝術展示之平滑軌跡生成。"],
+  ["阿里山林鐵 (獨立山螺旋)",23.5358,120.6052,0,"螺旋展線與之字形爬坡。黏著式鐵路的輪軌摩擦力極限，與 Shay 蒸汽機車直立汽缸傘齒輪傳動的登山工程智慧。"],
+  ["臺北大巨蛋空調換氣系統",25.0422,121.5587,0,"密閉式巨蛋的大空間空調工程。分層空調與換氣的 CFD 氣流模擬、巨型風管配置與滿場觀眾散熱負荷控制。"],
+  ["彰化王功生態景觀橋",23.9664,120.3188,0,"固定式鋼桁架景觀橋（建築師廖偉立設計）。桁架與折板構造的複合傳力，兼具通行、觀景與地景藝術機能。"],
   ["竹科旺宏電子總部",24.7744,121.0116,0,"晶圓廠無塵室空調系統。精密溫溼度感測模組（如 DHT）與變頻冰水主機的 PID 機電回饋控制。"],
-  ["林口三井 Outlet 摩天輪",25.071,121.3615,0,"巨型摩天輪驅動。採用輪胎摩擦邊緣驅動或中心齒輪驅動大迴轉半徑物件的低速高扭力機電配置。"],
+  ["台中港三井摩天輪(台中之星)",24.287,120.531,0,"巨型摩天輪驅動。採用輪胎摩擦邊緣驅動或中心齒輪驅動大迴轉半徑物件的低速高扭力機電配置。"],
   ["花蓮海洋公園纜車",23.9015,121.6033,0,"陡坡纜索輸送。雙向夾索器機制，探討重力下坡勢能如何透過聯動輪軸輔助上坡耗能的機械平衡系統。"],
   ["高屏溪攔河堰閘門",22.6841,120.4486,0,"弧形閘門開啟機構。電動馬達經雙重蝸輪蝸桿減速機（具備強大自鎖防滑特性）吊升數百噸鋼閘門。"],
   ["台江國家公園遊客中心",23.0188,120.1333,0,"智慧綠建築百葉窗。與溫度/光線感測器連動的電動百葉窗（步進馬達驅動定位），實現自動遮陽。"],
   ["中鋼高雄總部大樓",22.6058,120.3019,0,"外牆洗窗機軌道系統。高空懸吊工作台的雙軌升降機構與防止墜落的斷電常閉型電磁煞車器。"],
-  ["臺北小巨蛋冰上樂園",25.0519,121.5533,0,"巨型製冰冷媒系統。壓縮機、冷凝器與熱力學轉換，以及冰面溫度感測器的熱敏電阻線性電壓應用 。"],
+  ["臺北小巨蛋冰上樂園",25.0519,121.5533,0,"巨型製冰冷媒系統。壓縮機、冷凝器與熱力學轉換，以及冰面溫度感測器的熱敏電阻線性電壓應用。"],
   ["信義區智慧路燈示範區",25.034,121.5645,0,"智慧連網路燈。整合微波雷達與光感測器，透過 5G 通訊晶片模組進行遠端調光（利用 PWM 控制 LED 亮度）。"],
   ["松山機場空橋",25.0688,121.5525,0,"客機空橋三維移動機構。操作員利用搖桿控制巨型油壓缸與行走馬達，進行精確對接的安全距離感測。"],
   ["臺南科學園區資源再生中心",23.1118,120.2721,0,"廢棄物焚化爐自動進料。耐高溫紅外線熱像感測與巨型液壓抓斗的協同機電控制自動化作業。"],
   ["台電四湖陸域風場",23.6421,120.1505,1,"風力發電能量轉換。空氣動力學葉片設計、內部增速齒輪箱機構與發電機線圈電磁感應（第一章綠色能源）。"],
-  ["清水地熱發電廠",24.6628,121.6217,0,"地熱基載電力。熱力學雙循環系統（ORC），高溫管線防結垢材料處理與汽輪發電機運作原理。"],
-  ["沙崙綠能科技示範場域",24.1092,120.6146,0,"微電網系統與智慧綠能。太陽光電整合儲能系統（電池化學與電容）及智慧配電盤的功率控制 。"],
-  ["日月光半導體(高雄廠)",22.8456,120.2506,1,"IC 封裝測試巨頭。晶片對外通訊腳位之精密打線銲接與微觀散熱工程，對應半導體產業鏈職涯（第一章）。"],
+  ["清水地熱發電廠",24.612,121.637,0,"地熱基載電力。熱力學雙循環系統（ORC），高溫管線防結垢材料處理與汽輪發電機運作原理。"],
+  ["沙崙綠能科技示範場域",22.911,120.286,0,"微電網系統與智慧綠能。太陽光電整合儲能系統（電池化學與電容）及智慧配電盤的功率控制。"],
+  ["日月光半導體(高雄楠梓廠)",22.7302,120.2921,1,"IC 封裝測試巨頭。晶片對外通訊腳位之精密打線銲接與微觀散熱工程，對應半導體產業鏈職涯（第一章）。"],
   ["台積電竹科 12 廠",24.7732,121.0125,0,"先進製程研發中心。無塵室（Cleanroom）極端潔淨環境的微環境氣流控制（CFD 分析）與高效率 HEPA 過濾系統。"],
   ["台積電南科 18 廠",23.1165,120.2642,0,"3奈米製程重鎮。支援極紫外光（EUV）龐大耗能的超高壓變電站與超純水廠基礎設施，體現能源挑戰。"],
   ["苗栗海洋竹南離岸風場",24.6855,120.8011,0,"海洋工程水下基礎。抗強颱與抗海床液化的單樁（Monopile）與套管式基礎鋼結構的打樁工程。"],
   ["彰化彰濱太陽光電區",24.1042,120.3865,0,"巨型太陽光電陣列。探討太陽能板的串聯與並聯電路設計，以及將直流電（DC）轉交流電（AC）之大型變流器（Inverter）。"],
   ["台電臺中發電廠 (中火)",24.2136,120.4815,0,"全球巨型燃煤電廠。燃燒熱能轉動能之汽輪機，與後端靜電集塵與脫硫環保工程（氣候科技永續考驗）。"],
   ["桃園大潭發電廠",25.0286,121.0453,0,"複循環燃氣機組。利用燃氣輪機高溫廢氣再次加熱水產生蒸汽推動另一渦輪，極致提升熱效率之工程設計。"],
-  ["臺南七股鹽田太陽光電場",23.1415,120.0886,0,"鹽灘地轉型光電。探討極端高鹽分、強風環境下，太陽能板金屬支架的熱浸鍍鋅防鏽防腐蝕材料工程 。"],
+  ["臺南七股鹽田太陽光電場",23.1415,120.0886,0,"鹽灘地轉型光電。探討極端高鹽分、強風環境下，太陽能板金屬支架的熱浸鍍鋅防鏽防腐蝕材料工程。"],
   ["明潭抽蓄水力發電廠",23.8344,120.8712,0,"巨大儲能電池概念。離峰時利用剩餘電力抽水上山，尖峰放水發電的重力位能與電能的雙向完美轉換。"],
   ["屏東林邊光采濕地",22.4286,120.5052,0,"養水種電示範區。地層下陷區的高架太陽能支架結構設計與遭遇天災時微電網自給自足孤島運轉示範。"],
-  ["台電大甲溪發電廠 (谷關)",24.2052,121.0094,0,"豎軸法蘭西斯式水輪機。高水頭（Head）巨大水壓轉換為旋轉動能的流體力學與發電機電磁感應 。"],
+  ["台電大甲溪發電廠 (谷關)",24.2052,121.0094,0,"豎軸法蘭西斯式水輪機。高水頭（Head）巨大水壓轉換為旋轉動能的流體力學與發電機電磁感應。"],
   ["核三廠 (墾丁)",21.9568,120.7511,0,"壓水式核反應爐（PWR）。核分裂釋放熱能，極端安全防護（鋼筋混凝土圍阻體）與輻射屏蔽工程。"],
-  ["竹科聯發科總部大樓",24.7788,121.0101,0,"IC 設計重鎮。手機晶片（SoC）電路佈局設計，對應人工智慧演算法與邊緣運算（AIoT）發展需求 。"],
-  ["林口電廠超超臨界機組",25.1206,121.2933,0,"超超臨界（USC）燃煤技術。突破水的三相點，在極高溫高壓下無沸騰現象直接變為氣態以提高發電熱效率。"],
+  ["竹科聯發科總部大樓",24.7788,121.0101,0,"IC 設計重鎮。手機晶片（SoC）電路佈局設計，對應人工智慧演算法與邊緣運算（AIoT）發展需求。"],
+  ["林口電廠超超臨界機組",25.1206,121.2933,0,"超超臨界（USC）燃煤技術。突破水的臨界點，在極高溫高壓下無沸騰現象直接變為氣態以提高發電熱效率。"],
   ["烏山頭水庫水面型光電",23.2086,120.3667,0,"浮力太陽能發電。浮筒結構乘載光電板，降低水庫水分蒸發並利用水體降溫提升矽晶圓面板的發電效率。"],
-  ["臺北內湖科技園區",25.0754,121.5721,0,"電子零組件與光電聚落。從被動元件（電容、電阻）、LED 發光二極體到變壓器等日常電子元件的研發中心 。"],
+  ["臺北內湖科技園區",25.0754,121.5721,0,"電子零組件與光電聚落。從被動元件（電容、電阻）、LED 發光二極體到變壓器等日常電子元件的研發中心。"],
   ["高雄興達發電廠",22.8611,120.1972,0,"燃氣機組更新計畫。探討減碳與碳捕捉技術（CCUS）在傳統石化燃料發電廠的先期工程實驗。"],
   ["台積電中科 15 廠 (7奈米)",24.2091,120.6178,0,"中科半導體聚落。奈米製程中控制微小變因的晶圓製造、化學氣相沉積（CVD）與電漿蝕刻（Etching）技術。"],
-  ["臺南沙崙自駕車測試場",24.1086,120.6145,0,"AI 自駕車與雷達感測。車聯網（V2X）、光達（LiDAR）環境 3D 點雲建模與 AI 演算法測試的封閉基地 。"],
+  ["臺南沙崙自駕車測試場",22.908,120.283,0,"AI 自駕車與雷達感測。車聯網（V2X）、光達（LiDAR）環境 3D 點雲建模與 AI 演算法測試的封閉基地。"],
   ["雲林麥寮六輕工業區",23.7916,120.1872,0,"石化工業與汽電共生。極度複雜的化工管線網路、反應槽壓力自動控制閥與大規模熱能流體管理系統。"],
   ["台泥 DAKA 園區 (和平)",24.3072,121.7513,0,"廢棄物循環發電。利用水泥窯上千度高溫協同處理廢棄物無戴奧辛殘留，重工業結合環保之碳減排工程。"],
-  ["龍潭國家太空中心測試場",24.8601,121.2386,0,"衛星元件模擬測試。熱真空艙與劇烈震動機台，模擬太空極端環境，極端工程防護與測試評估（CDIO 流程）。"],
-  ["中研院量子電腦中心",25.0401,121.6133,0,"量子運算研發。探討有別於傳統矽基晶片之超導量子位元（Qubit），維持絕對零度極低溫冷卻的熱力學工程 。"],
+  ["國家太空中心衛星整測廠房",24.7797,121.0093,0,"衛星元件模擬測試。熱真空艙與劇烈震動機台，模擬太空極端環境，極端工程防護與測試評估（CDIO 流程）。"],
+  ["中研院量子電腦中心",25.0401,121.6133,0,"量子運算研發。探討有別於傳統矽基晶片之超導量子位元（Qubit），維持絕對零度極低溫冷卻的熱力學工程。"],
   ["高雄軟體園區 (鴻海研發)",22.6068,120.2974,0,"軟體與雲端運算中心。機房伺服器的大數據處理（Big Data）、演算法開發及龐大的高密度散熱空調工程。"],
-  ["竹南科學園區 (群創)",24.7113,120.9125,0,"面板與顯示器技術（TFT-LCD/OLED）。奈米級薄膜電晶體矩陣之光學控制與電子電路背光模組設計 。"],
-  ["台電彰一開閉所",24.0628,120.4075,0,"離岸風電併網樞紐。巨大的升壓變壓器與高壓直流/交流輸電系統（HVDC/HVAC），確保全台電網穩定技術。"],
-  ["台船基隆廠 (風電基座)",25.1416,121.7613,0,"大型鋼構銲接與造船廠。水下基礎（Pin pile）之巨型厚鋼板捲曲成型、精密自動化銲接與超音波無損檢測。"],
-  ["臺北南港生技園區",25.0456,121.6115,0,"生醫科技研發聚落。呼應教材中生醫技術（如 mRNA 疫苗與基因編輯）所需之高規格負壓 P3 實驗室工程 。"],
+  ["竹南科學園區 (群創)",24.7113,120.9125,0,"面板與顯示器技術（TFT-LCD/OLED）。奈米級薄膜電晶體矩陣之光學控制與電子電路背光模組設計。"],
+  ["台電彰一開閉所",24.1082,120.3939,0,"全台首座離岸風電併網開閉所。巨大的升壓變壓器與高壓交流（HVAC）併網輸電系統，確保全台電網穩定技術。"],
+  ["台船基隆廠",25.1416,121.7613,0,"大型造船廠。商船船段的巨型厚鋼板捲曲成型、精密自動化銲接與超音波無損檢測（風電水下基礎主力為高雄廠）。"],
+  ["臺北南港生技園區",25.0456,121.6115,0,"生醫科技研發聚落。呼應教材中生醫技術（如 mRNA 疫苗與基因編輯）所需之高規格負壓 P3 實驗室工程。"],
   ["高雄捷運北機廠太陽能",22.7561,120.3112,0,"捷運車棚光電化。大面積屋頂空間與太陽光電板結合，提供交通設施自主能源的微電網概念與直流電傳輸。"],
-  ["金門塔山發電廠",24.4172,118.2985,0,"離島柴油發電與智慧電網。在無法連結臺灣本島電網下，發電機組如何根據島內附載動態調整頻率的控制工程。"],
+  ["金門塔山發電廠",24.4172,118.2985,0,"離島柴油發電與智慧電網。在無法連結臺灣本島電網下，發電機組如何根據島內負載動態調整頻率的控制工程。"],
   ["澎湖中屯風力發電區",23.6065,119.5968,0,"臺灣早期陸域風機。風力機組防鹽害塗層技術，與強季風下風向感測器啟動迎風轉向（Yaw）偏航馬達控制。"],
-  ["蘭嶼核廢料貯存場",22.0256,121.5721,0,"放射性廢棄物處理工程。防護桶的防輻射材料（高密度混凝土屏蔽工程）及地質穩定性長期監測。"],
+  ["蘭嶼核廢料貯存場",22.005,121.5922,0,"放射性廢棄物處理工程。防護桶的防輻射材料（高密度混凝土屏蔽工程）及地質穩定性長期監測。"],
   ["國研院半導體中心",24.7923,120.9984,0,"學生IC製程訓練基地。從矽晶圓（Silicon wafer）高溫氧化、黃光微影到蝕刻的微奈米級實體無塵室操作。"],
   ["新店溪粗坑發電廠",24.9351,121.5456,0,"百年川流式水力發電。無大型水庫調節，直接利用河川自然水頭差推動水輪機的小水力與永續設計理念。"],
   ["臺北榮總重粒子治療站",25.1215,121.5226,0,"醫療加速器工程。同步加速器將碳離子加速至光速 70%，巨大電磁鐵與高真空管線的精密機電佈置與冷卻。"],
   ["大臺南會展中心",22.9298,120.2863,0,"鋼構無柱展覽館與綠能。結合沙崙綠能科學城，會展中心屋頂本身即為大型太陽能實驗與發電效率展示場。"],
-  ["台塑星能彰濱風力發電場",24.1165,120.3951,0,"沿海防風林間的陸域風機。流體力學評估風機尾流效應（Wake effect）與排列間距，以達最大發電效能之最佳化佈局。"],
+  ["台電彰工風力發電站(彰濱)",24.1165,120.3951,0,"沿海防風林間的陸域風機。流體力學評估風機尾流效應（Wake effect）與排列間距，以達最大發電效能之最佳化佈局。"],
   ["高雄大林發電廠",22.5361,120.3346,0,"筒式室內煤倉。為避免煤塵逸散造成的環境污染，運用巨型鋼構穹頂將儲煤場完全室內化的環保建築工程。"],
-  ["屏東核三廠南部展示館",21.9568,120.7511,1,"太陽能光電與風力展示。藉由實體縮尺模型展示發電原理，推廣能源教育（呼應第一章工程與社會環境互動）。"],
+  ["屏東核三廠南部展示館",21.9491,120.7448,1,"太陽能光電與風力展示。藉由實體縮尺模型展示發電原理，推廣能源教育（呼應第一章工程與社會環境互動）。"],
   ["花蓮和平電廠",24.3015,121.7501,0,"民營火力發電與專用港。深水碼頭的卸煤機具及防波堤設計，與隱藏於山壁間的煙囪景觀環保妥協工程。"],
-  ["台電高屏供電區營運處",22.6515,120.3168,0,"變電站與電力調度。變壓器（Transformer）電壓轉換、斷路器（Circuit Breaker）與輸電線路保護繼電系統 。"],
+  ["台電高屏供電區營運處",22.6515,120.3168,0,"變電站與電力調度。變壓器（Transformer）電壓轉換、斷路器（Circuit Breaker）與輸電線路保護繼電系統。"],
   ["國家地震工程研究中心",25.0152,121.5386,0,"巨型地震模擬震動台。利用大型液壓伺服系統模擬多維度地震波，進行全尺寸建築的動態抗震破壞測試。"],
   ["新竹科學園區汙水處理廠",24.7816,121.0028,0,"科技業工業廢水處理。半導體產業排放的重金屬與化學酸鹼廢液，如何透過生化過濾與自動中和系統淨化（環境責任）。"],
   ["台達電內湖總部綠建築",25.0745,121.5723,0,"樓宇自動化與節能系統。整合變頻空調、LED 節能照明及電梯馬達能量回收，落實綠能企業的碳排承諾。"],
@@ -458,7 +458,7 @@ const WIKI_REFS = {
   32: "https://zh.wikipedia.org/wiki/%E6%96%B0%E5%8C%97%E5%A4%A7%E6%A9%8B",
   35: "https://zh.wikipedia.org/wiki/%E6%96%B0%E6%9D%B1%E5%A4%A7%E6%A9%8B_(%E8%8B%97%E6%A0%97%E7%B8%A3)",
   36: "https://zh.wikipedia.org/wiki/%E5%90%91%E5%B1%B1%E8%A1%8C%E6%94%BF%E6%9A%A8%E9%81%8A%E5%AE%A2%E4%B8%AD%E5%BF%83",
-  37: "https://zh.wikipedia.org/wiki/%E4%B8%8B%E6%B7%A1%E6%B0%B4%E6%BA%AA%E9%90%B5%E6%A9%8B",
+  37: "https://zh.wikipedia.org/wiki/%E5%93%A1%E5%B1%B1%E5%AD%90%E5%88%86%E6%B4%AA%E9%81%93",
   40: "https://zh.wikipedia.org/wiki/%E9%98%BF%E5%85%AC%E5%BA%97%E6%B0%B4%E5%BA%AB",
   41: "https://zh.wikipedia.org/wiki/%E9%AB%98%E9%9B%84%E6%B8%AF%E9%81%8E%E6%B8%AF%E9%9A%A7%E9%81%93",
   42: "https://zh.wikipedia.org/wiki/%E9%87%91%E9%96%80%E5%A4%A7%E6%A9%8B_%28%E9%87%91%E9%96%80%E7%B8%A3%29",
@@ -796,7 +796,7 @@ function regionHint(lat, lon) {
 function typeHint(name) {
   const T = [
     [/攔河堰|水庫|壩|堰/, '水利設施(水庫／攔河堰)'],
-    [/橋/, '橋樑'],
+    [/橋/, '橋梁'],
     [/隧道/, '隧道'],
     [/發電|電廠|風場|風力|光電|地熱|機組|核三|核能/, '發電／能源設施'],
     [/高鐵|捷運|輕軌|車站|火車站|機廠|林鐵|五分車|纜車/, '軌道／纜車運輸'],

diff --git a/arcade/games/geoguess/refs/SOURCES.md b/arcade/games/geoguess/refs/SOURCES.md
@@ -27,7 +27,7 @@
 | 13 | 國道六號國姓交流道 | [國姓交流道](https://zh.wikipedia.org/wiki/%E5%9C%8B%E5%A7%93%E4%BA%A4%E6%B5%81%E9%81%93) | wiki-13.jpg |
 | 14 | 五楊高架橋 | [五股楊梅高架道路](https://zh.wikipedia.org/wiki/%E4%BA%94%E8%82%A1%E6%A5%8A%E6%A2%85%E9%AB%98%E6%9E%B6%E9%81%93%E8%B7%AF) | wiki-14.jpg |
 | 15 | 舊山線龍騰斷橋 | [魚藤坪斷橋](https://zh.wikipedia.org/wiki/%E9%AD%9A%E8%97%A4%E5%9D%AA%E6%96%B7%E6%A9%8B) | wiki-15.jpg |
-| 16 | 下淡水溪鐵橋 | [下淡水溪鐵橋](https://zh.wikipedia.org/wiki/%E4%B8%8B%E6%B7%A1%E6%B0%B4%E6%BA%AA%E9%90%B5%E6%A9%8B) | wiki-16.jpg |
+| 16 | 下淡水溪鐵橋(高屏溪舊鐵橋) | [下淡水溪鐵橋](https://zh.wikipedia.org/wiki/%E4%B8%8B%E6%B7%A1%E6%B0%B4%E6%BA%AA%E9%90%B5%E6%A9%8B) | wiki-16.jpg |
 | 17 | 大直橋 | [大直橋](https://zh.wikipedia.org/wiki/%E5%A4%A7%E7%9B%B4%E6%A9%8B) | wiki-17.jpg |
 | 18 | 蘇花改觀音隧道 | [觀音隧道 (台9線)](https://zh.wikipedia.org/wiki/%E8%A7%80%E9%9F%B3%E9%9A%A7%E9%81%93_%28%E5%8F%B09%E7%B7%9A%29) | wiki-18.jpg |
 | 19 | 雪山隧道通風豎井 | [雪山隧道](https://zh.wikipedia.org/wiki/%E9%9B%AA%E5%B1%B1%E9%9A%A7%E9%81%93) | wiki-19.jpg |
@@ -44,7 +44,7 @@
 | 32 | 新北大橋 | [新北大橋](https://zh.wikipedia.org/wiki/%E6%96%B0%E5%8C%97%E5%A4%A7%E6%A9%8B) | wiki-32.jpg |
 | 35 | 苗栗新東大橋 | [新東大橋 (苗栗縣)](https://zh.wikipedia.org/wiki/%E6%96%B0%E6%9D%B1%E5%A4%A7%E6%A9%8B_(%E8%8B%97%E6%A0%97%E7%B8%A3)) | wiki-35.jpg |
 | 36 | 日月潭向山遊客中心 | [向山行政暨遊客中心](https://zh.wikipedia.org/wiki/%E5%90%91%E5%B1%B1%E8%A1%8C%E6%94%BF%E6%9A%A8%E9%81%8A%E5%AE%A2%E4%B8%AD%E5%BF%83) | wiki-36.jpg |
-| 37 | 高屏溪舊鐵橋 | [下淡水溪鐵橋](https://zh.wikipedia.org/wiki/%E4%B8%8B%E6%B7%A1%E6%B0%B4%E6%BA%AA%E9%90%B5%E6%A9%8B) | wiki-37.jpg |
+| 37 | 員山子分洪道 | [員山子分洪道](https://zh.wikipedia.org/wiki/%E5%93%A1%E5%B1%B1%E5%AD%90%E5%88%86%E6%B4%AA%E9%81%93) | wiki-37.jpg |
 | 40 | 阿公店水庫 | [阿公店水庫](https://zh.wikipedia.org/wiki/%E9%98%BF%E5%85%AC%E5%BA%97%E6%B0%B4%E5%BA%AB) | wiki-40.jpg |
 | 41 | 高雄港過港隧道 | [高雄港過港隧道](https://zh.wikipedia.org/wiki/%E9%AB%98%E9%9B%84%E6%B8%AF%E9%81%8E%E6%B8%AF%E9%9A%A7%E9%81%93) | wiki-41.jpg |
 | 42 | 金門大橋 | [金門大橋 (金門縣)](https://zh.wikipedia.org/wiki/%E9%87%91%E9%96%80%E5%A4%A7%E6%A9%8B_%28%E9%87%91%E9%96%80%E7%B8%A3%29) | wiki-42.jpg |
@@ -53,7 +53,7 @@
 | 49 | 中橫公路九曲洞明隧道 | [中橫公路](https://zh.wikipedia.org/wiki/%E4%B8%AD%E6%A9%AB%E5%85%AC%E8%B7%AF) | wiki-49.jpg |
 | 50 | 台中國家歌劇院 | [臺中國家歌劇院](https://zh.wikipedia.org/wiki/%E8%87%BA%E4%B8%AD%E5%9C%8B%E5%AE%B6%E6%AD%8C%E5%8A%87%E9%99%A2) | wiki-50.jpg |
 | 51 | 台北表演藝術中心 | [臺北表演藝術中心](https://zh.wikipedia.org/wiki/%E8%87%BA%E5%8C%97%E8%A1%A8%E6%BC%94%E8%97%9D%E8%A1%93%E4%B8%AD%E5%BF%83) | wiki-51.jpg |
-| 52 | 淡江大橋（建設中） | [淡江大橋](https://zh.wikipedia.org/wiki/%E6%B7%A1%E6%B1%9F%E5%A4%A7%E6%A9%8B) | wiki-52.jpg |
+| 52 | 淡江大橋 | [淡江大橋](https://zh.wikipedia.org/wiki/%E6%B7%A1%E6%B1%9F%E5%A4%A7%E6%A9%8B) | wiki-52.jpg |
 | 53 | 衛武營國家藝術文化中心 | [衛武營國家藝術文化中心](https://zh.wikipedia.org/wiki/%E8%A1%9B%E6%AD%A6%E7%87%9F%E5%9C%8B%E5%AE%B6%E8%97%9D%E8%A1%93%E6%96%87%E5%8C%96%E4%B8%AD%E5%BF%83) | wiki-53.jpg |
 | 54 | 高雄流行音樂中心 | [高雄流行音樂中心](https://zh.wikipedia.org/wiki/%E9%AB%98%E9%9B%84%E6%B5%81%E8%A1%8C%E9%9F%B3%E6%A8%82%E4%B8%AD%E5%BF%83) | wiki-54.jpg |
 | 55 | 蘭陽博物館 | [蘭陽博物館](https://zh.wikipedia.org/wiki/%E8%98%AD%E9%99%BD%E5%8D%9A%E7%89%A9%E9%A4%A8) | wiki-55.jpg |
